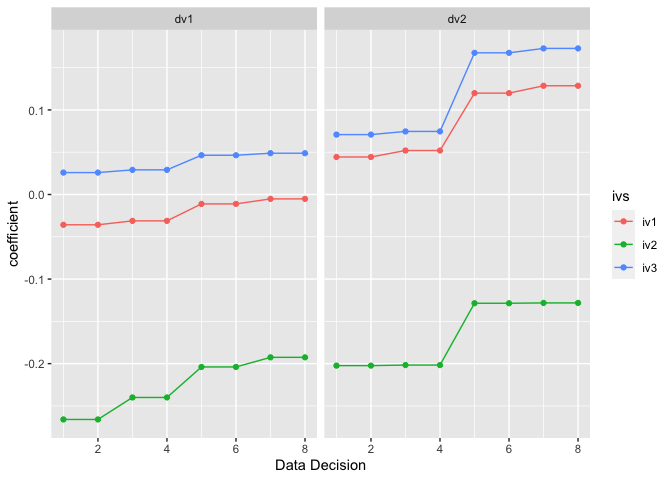
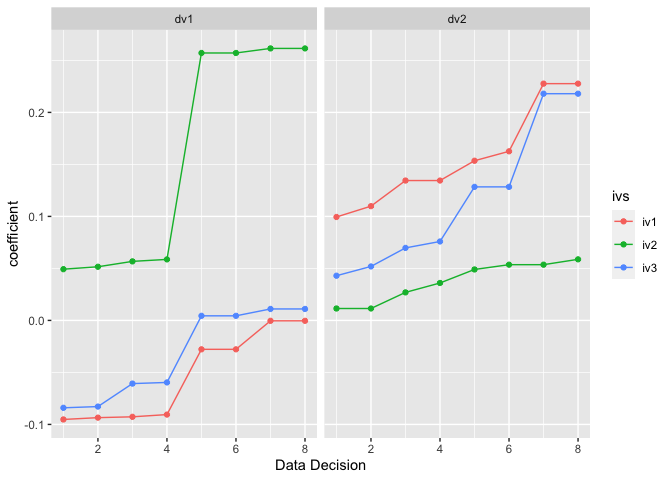
fix my site

diff --git a/README.md b/README.md
@@ -3,6 +3,8 @@
 
 <div style="text-align: center;">
 
+<br>
+
 <div>
 
 <span style="font-size: 32px; font-weight: bold;">Plan · </span>
@@ -47,7 +49,7 @@ unpacking multiverse analyses and results.
 
 For those unfamiliar with multiverse analysis, here is a short primer:
 
-<iframe width="100%" height="600" src="multiverse-primer.html" style="border: 2px #dee2e6 solid; border-radius: 5px;">
+<iframe width="100%" height="600" src="multiverse-primer/multiverse-primer.html" style="border: 2px #dee2e6 solid; border-radius: 5px;">
 </iframe>
 
 ## Beyond Multiverse
@@ -224,7 +226,7 @@ multiverse_results |>
 #> # A tibble: 1 × 2
 #>   coefficient_mean coefficient_median
 #>              <dbl>              <dbl>
-#> 1         -0.00802            -0.0319
+#> 1           0.0476             0.0270
 
 # Plot your effects
 multiverse_results |> 
